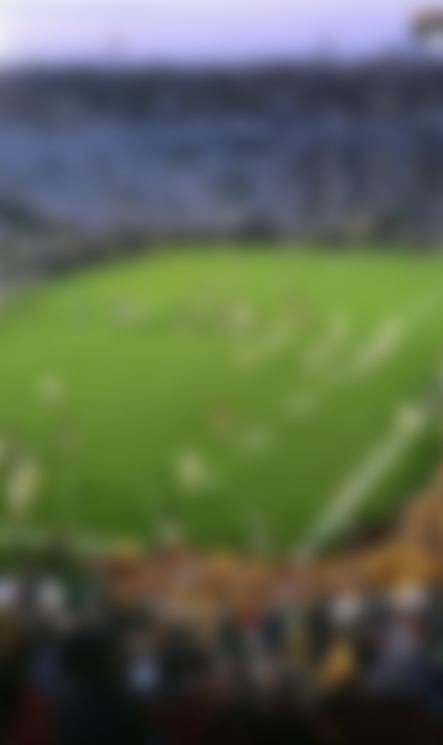
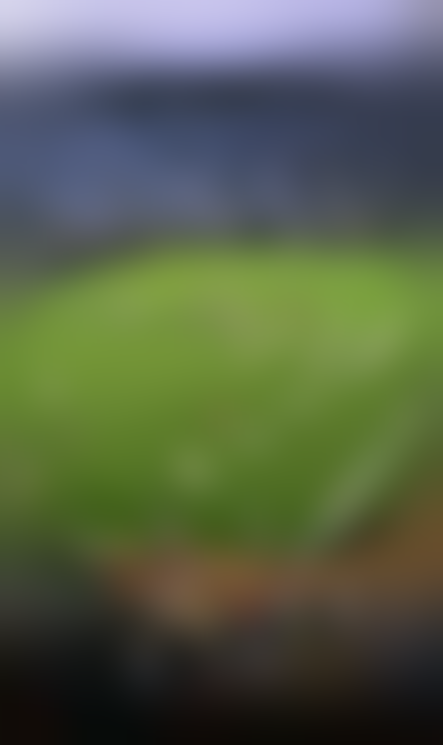
transparent cells

diff --git a/SCTicket/gamesTableViewController.swift b/SCTicket/gamesTableViewController.swift
@@ -36,6 +36,9 @@ class gamesTableViewController: UITableViewController {
             MBProgressHUD.hide(for: self.view, animated: true)
             self.tableView.reloadData()
         })
+        
+        let imageView = UIImageView(image: UIImage(named: "Background"))
+        self.tableView.backgroundView = imageView
     }
     @IBOutlet var gamesTableView: UITableView! {
         didSet {
@@ -96,6 +99,8 @@ class gamesTableViewController: UITableViewController {
     override func tableView(_ tableView: UITableView, cellForRowAt indexPath: IndexPath) -> UITableViewCell {
         let cell = tableView.dequeueReusableCell(withIdentifier: "cell", for: indexPath) as UITableViewCell
         cell.textLabel?.text = games[indexPath.row]
+        cell.textLabel?.textColor = UIColor.white
+        cell.backgroundColor = UIColor.clear
         return cell
     }
     

diff --git a/SCTicket/allTicketsTableViewController.swift b/SCTicket/allTicketsTableViewController.swift
@@ -125,7 +125,7 @@ class allTicketsTableViewController: UITableViewController, MFMessageComposeView
         cell.priceLabel.text = "$" + String(Int(curr.price))
         cell.descriptionLabel.text = curr.description
         
-        //cell.contentView.backgroundColor = UIColor.lightGray
+        cell.backgroundColor = UIColor.clear
         return cell
     }
     

diff --git a/SCTicket/userRequestsTableViewController.swift b/SCTicket/userRequestsTableViewController.swift
@@ -120,6 +120,9 @@ class userRequestsTableViewController: UITableViewController {
         
         cell.textLabel?.text = curr.gamePostedIn + ": \(temp) for $" + String(Int(curr.price))
         cell.selectionStyle = .none
+        
+        cell.textLabel?.textColor = UIColor.white
+        cell.backgroundColor = UIColor.clear
 
         return cell
     }
